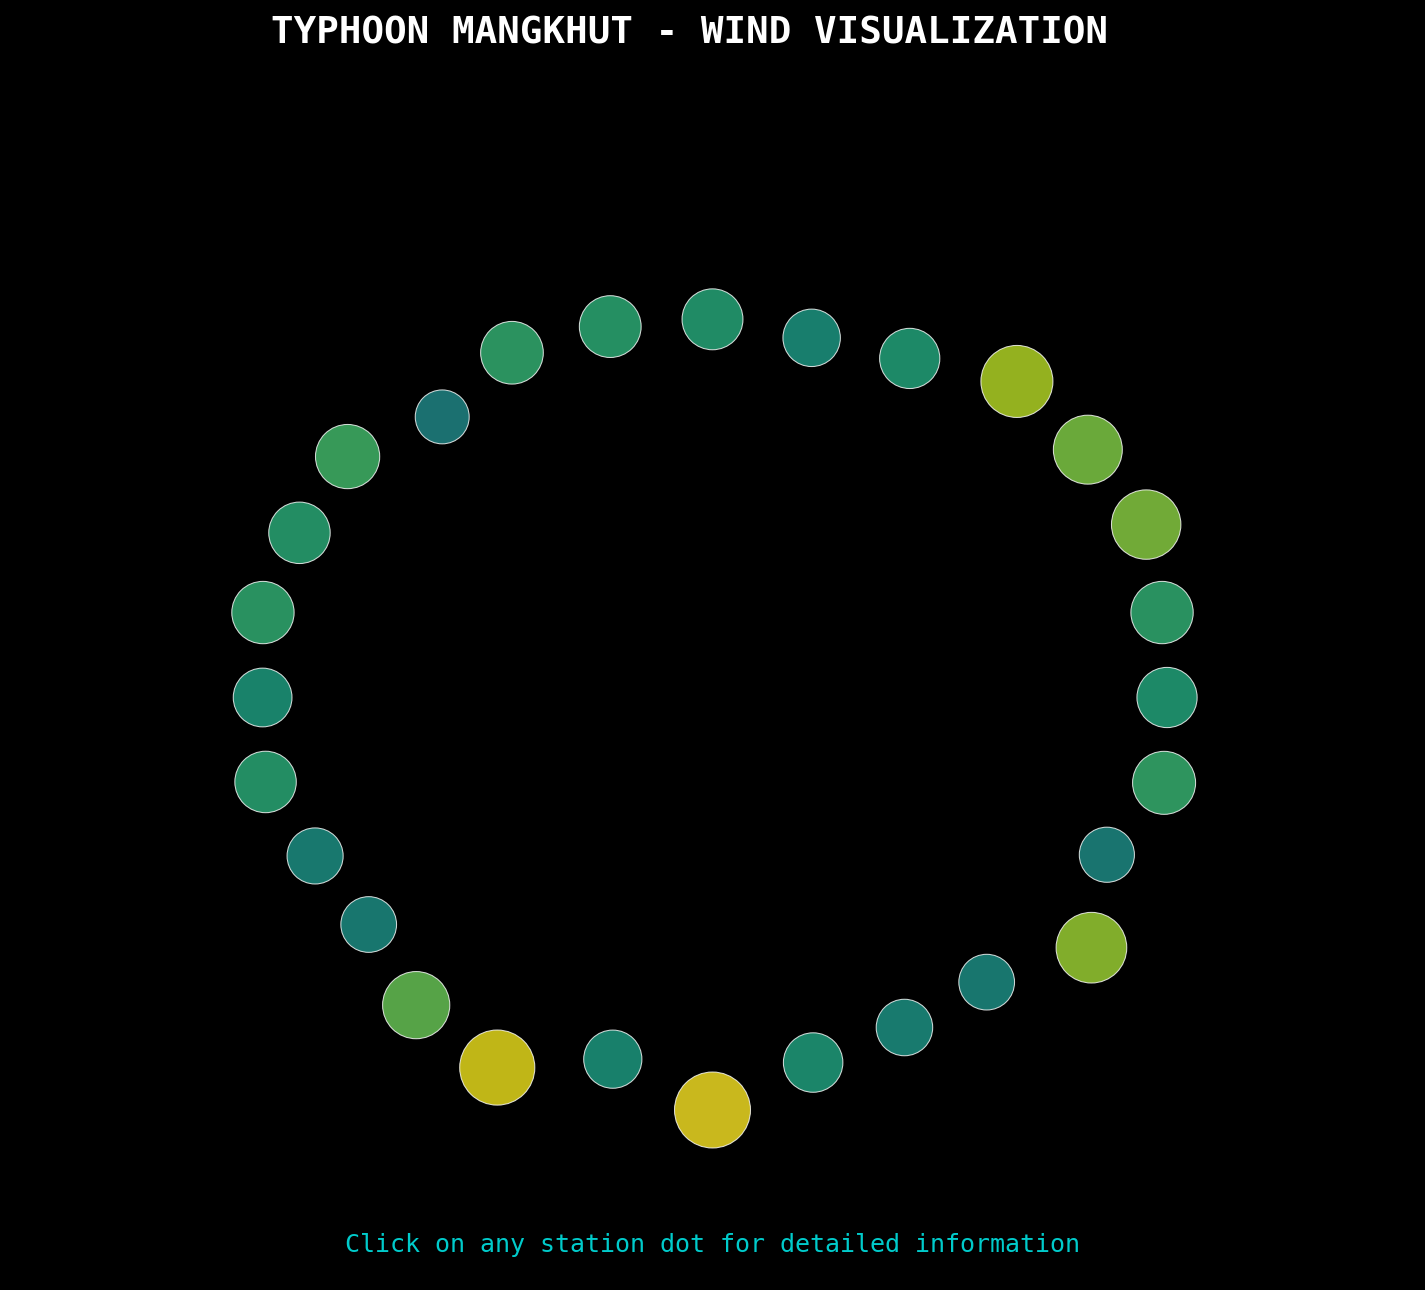
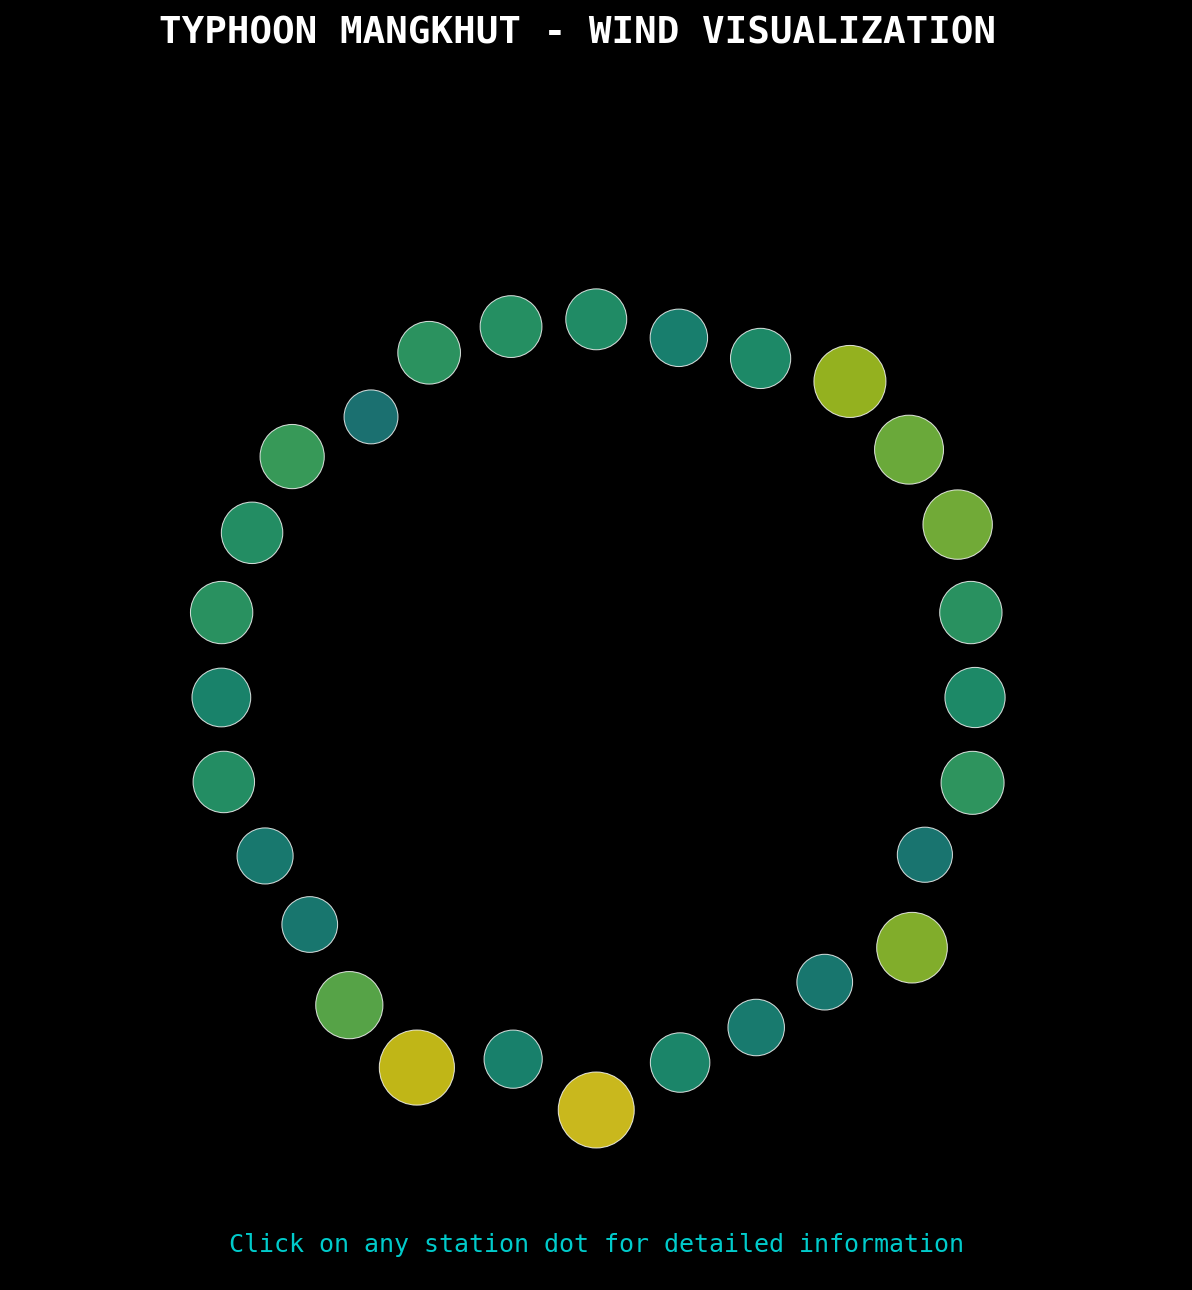
📸 修正静态截图中的信息框显示问题
🔧 修复内容:
- 统一截图尺寸为 (10,10)，与主程序保持一致
- 修正信息框定位方式，使用 annotate + axes fraction
- 更新信息框样式：黑色背景 + 青色边框 + 白色文字
- 调整标题和说明文字布局，避免重叠
- 使用等宽字体 (monospace) 确保文字清晰

📱 现在的截图特点:
- screenshot_basic.png (87KB): 清晰的基础视图
- screenshot_clicked.png (148KB): 完整显示点击信息框
- 信息框正确显示在画面中央
- 样式与实际程序完全匹配

✅ 修正后的点击截图包含:
- 🔆 高亮的长洲气象站
- 🌊 3层水波纹效果
- 💬 居中显示的详细信息框
- 📊 站点名称、风速、风向、时间信息

diff --git a/src/generate_screenshots.py b/src/generate_screenshots.py
@@ -53,8 +53,8 @@ y = radii * np.sin(angles)
 colors = plt.cm.viridis(speeds / speeds.max())
 sizes = speeds * 5 + 50
 
-# 创建截图1：基础视图
-fig1, ax1 = plt.subplots(figsize=(12, 10))
+# 创建截图1：基础视图 - 使用与原始程序相同的尺寸
+fig1, ax1 = plt.subplots(figsize=(10, 10))
 fig1.patch.set_facecolor("black")
 ax1.set_facecolor("black")
 ax1.axis("off")
@@ -77,18 +77,38 @@ fig1.savefig(os.path.join(parent_dir, 'assets', 'screenshot_basic.png'),
             dpi=150, facecolor='black', bbox_inches='tight')
 print("✓ 生成基础视图截图: assets/screenshot_basic.png")
 
-# 创建截图2：点击效果展示
-fig2, ax2 = plt.subplots(figsize=(12, 10))
+# 创建截图2：点击效果展示 - 使用与原始程序相同的设置
+fig2, ax2 = plt.subplots(figsize=(10, 10))
 fig2.patch.set_facecolor("black")
 ax2.set_facecolor("black")
 ax2.axis("off")
 
-fig2.suptitle('TYPHOON MANGKHUT - STATION DETAILS DISPLAY', 
-             fontsize=18, fontweight='bold', color='white', y=0.95, fontfamily='monospace')
+# 添加标题
+fig2.suptitle('TYPHOON MANGKHUT - WIND SPEED VISUALIZATION', 
+             fontsize=18, 
+             fontweight='bold', 
+             color='white', 
+             y=0.95,
+             fontfamily='monospace')
 
-ax2.text(0.5, 0.02, 'Example: Clicking on Cheung Chau Station', 
-        transform=ax2.transAxes, fontsize=12, color='cyan', ha='center',
-        fontfamily='monospace', alpha=0.8)
+# 添加操作提示
+ax2.text(0.5, 0.88, 'Example: Clicking on Cheung Chau Station shows details', 
+        transform=fig2.transFigure, 
+        fontsize=10, 
+        color='lightgray', 
+        ha='center',
+        fontfamily='monospace',
+        alpha=0.8,
+        style='italic')
+
+# 添加副标题
+ax2.text(0.5, 0.02, 'Hong Kong Weather Stations | September 2018', 
+        transform=ax2.transAxes, 
+        fontsize=12, 
+        color='cyan', 
+        ha='center',
+        fontfamily='monospace',
+        alpha=0.8)
 
 ax2.set_xlim(-max_radius, max_radius)
 ax2.set_ylim(-max_radius, max_radius)
@@ -108,11 +128,22 @@ for i in range(3):
                        color='cyan', alpha=alpha, linewidth=2)
     ax2.add_patch(circle)
 
-# 添加信息框
-info_text = f"STATION: Cheung Chau\nWIND SPEED: {speeds[highlight_idx]} km/h\nDIRECTION: E\nTIME: 16/9 14:10"
-ax2.text(0.5, 0.5, info_text, transform=ax2.transAxes, 
-        bbox=dict(boxstyle="round,pad=1.0", fc="black", alpha=0.8, edgecolor="cyan", linewidth=2),
-        fontsize=14, color="white", ha='center', va='center', fontfamily='monospace')
+# 添加信息框 - 使用与原始程序完全相同的样式和定位
+info_text = f"STATION: Cheung Chau\nWIND SPEED: {int(speeds[highlight_idx])} km/h\nDIRECTION: E\nTIME: 16/9 14:10"
+
+# 使用annotate来创建信息框，与原始程序保持一致
+annotation = ax2.annotate(
+    info_text,
+    xy=(0, 0), xytext=(0.5, 0.5),
+    textcoords="axes fraction",
+    bbox=dict(boxstyle="round,pad=1.0", fc="black", alpha=0.8, edgecolor="cyan", linewidth=2),
+    fontsize=14,
+    color="white",
+    ha="center",
+    va="center",
+    fontfamily="monospace"
+)
+annotation.set_visible(True)
 
 # 保存点击效果截图
 fig2.savefig(os.path.join(parent_dir, 'assets', 'screenshot_clicked.png'), 
